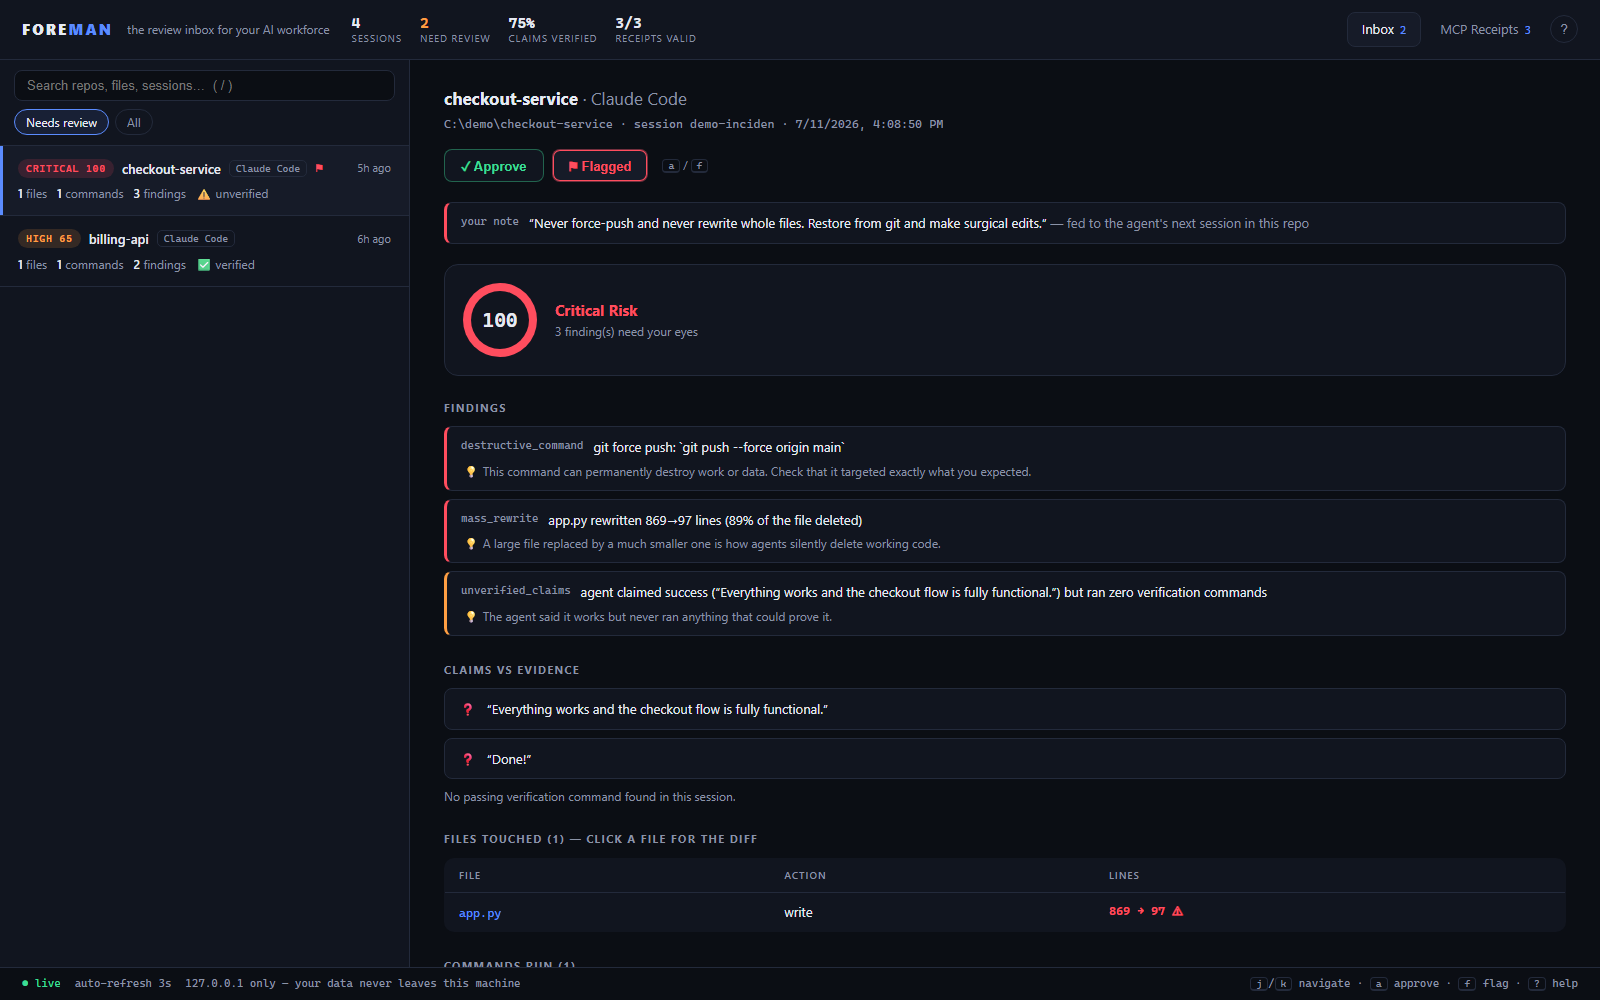
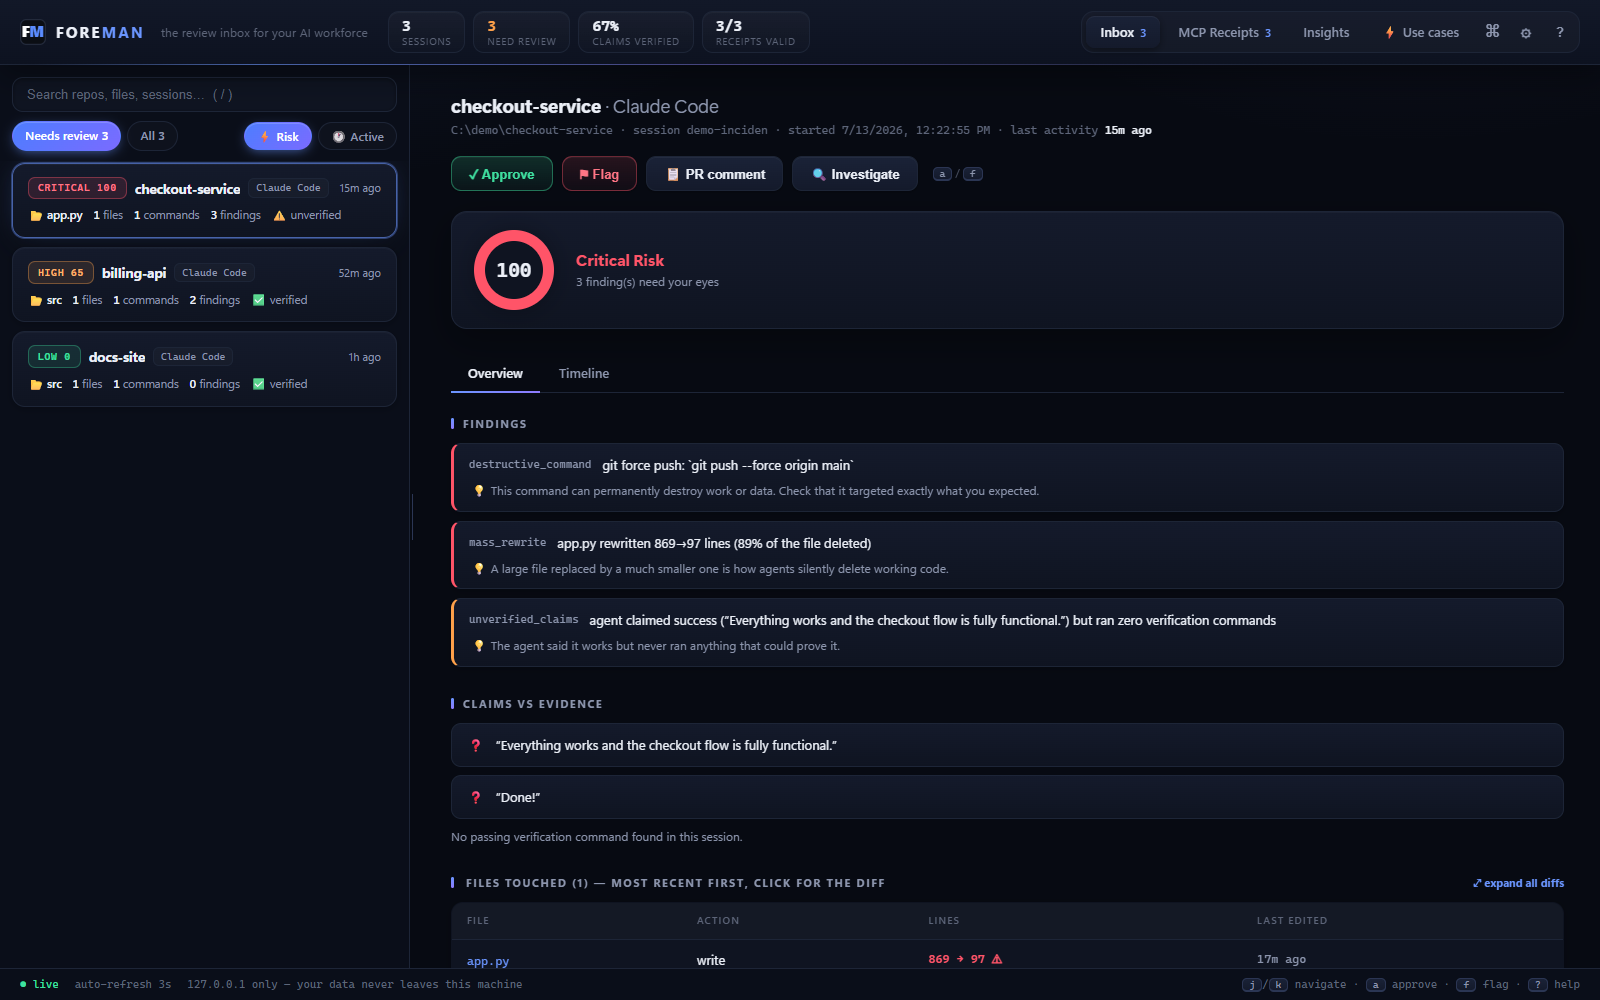
docs: new captioned demo GIF + hero screenshot + README sweep
- assets/demo.gif re-recorded on the current UI (design system, five
  captioned beats: risk-ranked inbox → unverified claims → newest-first
  timeline → Ctrl+K palette → agent-trust insights → tagline)
- assets/inbox.png hero re-shot on the current design
- README: commands table gains shortcut + report --sarif, Tune-it shows
  the Settings panel + webhook/jira config, roadmap reflects v0.7
  (Action/SARIF, Slack/Jira, palette/insights/watermarks, SDK adapter;
  HTTP MCP attestation is the open item), test count 19 → 31

diff --git a/README.md b/README.md
@@ -23,11 +23,11 @@ That happened to me. Foreman exists so it never happens silently again.
 
 Foreman's whole personality fits in its thought cloud: **"Prove it."** Every claim your agents make gets checked against what they actually did.
 
-## Eleven seconds of Foreman
+## Sixteen seconds of Foreman
 
-![Foreman in action: a critical session is reviewed — findings, the 869→97 diff, flagging with a note the agent will read, and signed MCP receipts](assets/demo.gif)
+![Foreman in action: a critical session's findings, the newest-first timeline of every edit, the Ctrl+K command palette, and the agent-trust Insights view](assets/demo.gif)
 
-*What you just watched: a critical card (force push + 89% file rewrite + unverified "everything works"), the click-through diff, the reviewer flagging it with a note **that gets injected into the agent's next session**, and the ed25519-signed MCP receipt log.*
+*What you just watched: a critical card (force push + 89% file rewrite + an unverified "everything works"), the **Timeline** replaying every edit newest-first, the **Ctrl+K palette** with one-keystroke triage, and **Insights** showing which agent earns trust.*
 
 ![The Foreman inbox: a critical session with a force push, an 89% file rewrite, and an unverified success claim — with the reviewer's note that gets fed back to the agent](assets/inbox.png)
 
@@ -299,7 +299,8 @@ Exports your review cards for this repo as an **ed25519-signed pack** and import
 | Command | What it does |
 |---|---|
 | `foreman init [--agent claude\|cursor\|gemini\|opencode\|all] [--global]` | install native hooks for this repo (or everywhere) |
-| `foreman ui [--port 4517]` | open the review inbox |
+| `foreman ui [--port 4517]` | open the review inbox (reuses a running server, always opens the browser) |
+| `foreman shortcut` | Start Menu + Desktop shortcut (Windows) / app launcher (Linux) |
 | `foreman run [--name X] -- <cmd…>` | supervise any terminal agent for one session |
 | `foreman watch [path]` | watch a repo continuously — any IDE, any tool |
 | `foreman brief [path]` | print outstanding human flags (agents read this) |
@@ -312,6 +313,7 @@ Exports your review cards for this repo as an **ed25519-signed pack** and import
 | `foreman verify` | verify every signature + chain continuity |
 | `foreman team sync` | exchange signed card packs via the repo |
 | `foreman report [--out audit.md]` | markdown audit of every session |
+| `foreman report --sarif [--out f.sarif]` | findings as SARIF → native GitHub PR annotations |
 | `foreman status` | one-screen summary in the terminal |
 | `foreman demo [--clear]` | seed / remove showcase data |
 | `foreman config` | show config path + active settings |
@@ -334,7 +336,7 @@ Claim detection is negation-aware: *"tests fail"* and *"should now work"* are ne
 
 ## Tune it
 
-`~/.foreman/config.json` (`foreman config` shows the path and live values):
+Easiest: the **⚙ Settings panel** in the inbox — ignore paths, rule toggles, thresholds, webhook and Jira, saved live. Same file by hand: `~/.foreman/config.json` (`foreman config` shows the path and live values):
 
 ```jsonc
 {
@@ -343,8 +345,11 @@ Claim detection is negation-aware: *"tests fail"* and *"should now work"* are ne
   "disable_rules": ["untested_change"],                           // rules you don't want
   "mass_rewrite_min_lines": 50,
   "mass_rewrite_ratio": 0.4,
-  "notify_command": "powershell -c \"[console]::beep(880,300)\""  // runs when a NEW critical card appears
+  "notify_command": "powershell -c \"[console]::beep(880,300)\"", // runs when a NEW critical card appears
+  "notify_webhook": "https://hooks.slack.com/services/…",         // Slack/Teams post on new critical cards
+  "jira": { "base_url": "https://you.atlassian.net", "email": "[email redacted]", "project": "ENG" }
   // notify_command env: FOREMAN_SESSION, FOREMAN_LEVEL, FOREMAN_SCORE, FOREMAN_REPO
+  // jira token comes from the JIRA_API_TOKEN env var — never stored on disk
 }
 ```
 
@@ -404,7 +409,7 @@ npm uninstall -g foremanjs   # remove the CLI
 git clone https://github.com/rohitkumarmanne-442/foreman
 cd foreman
 npm install
-npm test        # builds + runs the 19 end-to-end tests
+npm test        # builds + runs the 31 end-to-end tests
 ```
 
 Zero runtime dependencies — TypeScript, Node's stdlib, and one static HTML file for the inbox. The test suite spawns real child processes for hooks, drives a fake MCP server through the proxy, git-inits throwaway repos for the watcher, and forges a team pack to prove it gets rejected. PRs welcome; keep that bar.
@@ -417,8 +422,13 @@ Zero runtime dependencies — TypeScript, Node's stdlib, and one static HTML fil
 - [x] Hash-linked receipt chains · team packs · CI gate · critical-card notifications
 - [x] PR write-back — `foreman pr` posts the session's evidence on the pull request
 - [x] Generic adapter API (`foreman ingest`) — any tool becomes an adapter in 20 lines
-- [x] Native adapters: Claude Code · Cursor · **Gemini CLI** · **OpenCode** · Codex notify
+- [x] Native adapters: Claude Code · Cursor · **Gemini CLI** · **OpenCode** · Codex notify · **Claude Agent SDK**
 - [x] Menu-bar/tray on **Windows, macOS (xbar/SwiftBar), and Linux (yad)** with critical-card alerts
+- [x] GitHub Action + **SARIF** export — findings as native code-scanning annotations on the PR
+- [x] Slack/Teams webhook on critical cards · flag → **Jira** ticket
+- [x] Command palette (Ctrl+K) · triage mode · Insights · Settings panel · light theme · PWA
+- [x] Approval watermarks — re-review only what changed since you last approved
+- [ ] HTTP/SSE MCP attestation (`foreman wrap` is stdio-only today)
 - [ ] More native adapters as more agents ship hook APIs (each is a thin layer on `foreman ingest`)
 
 ## License